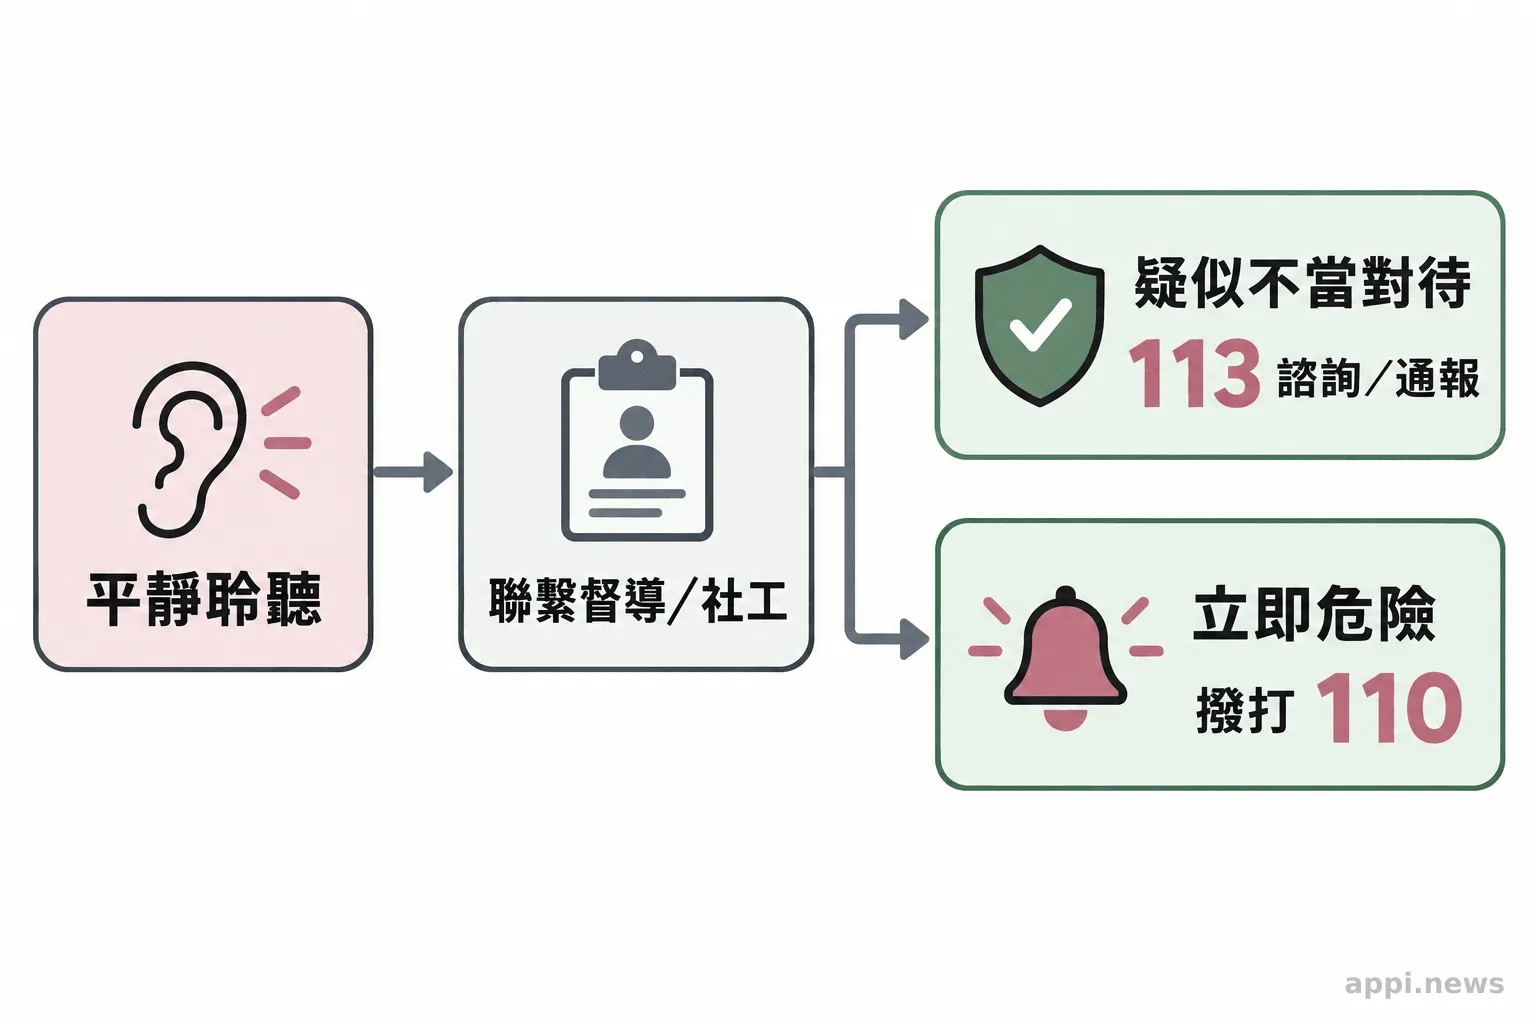
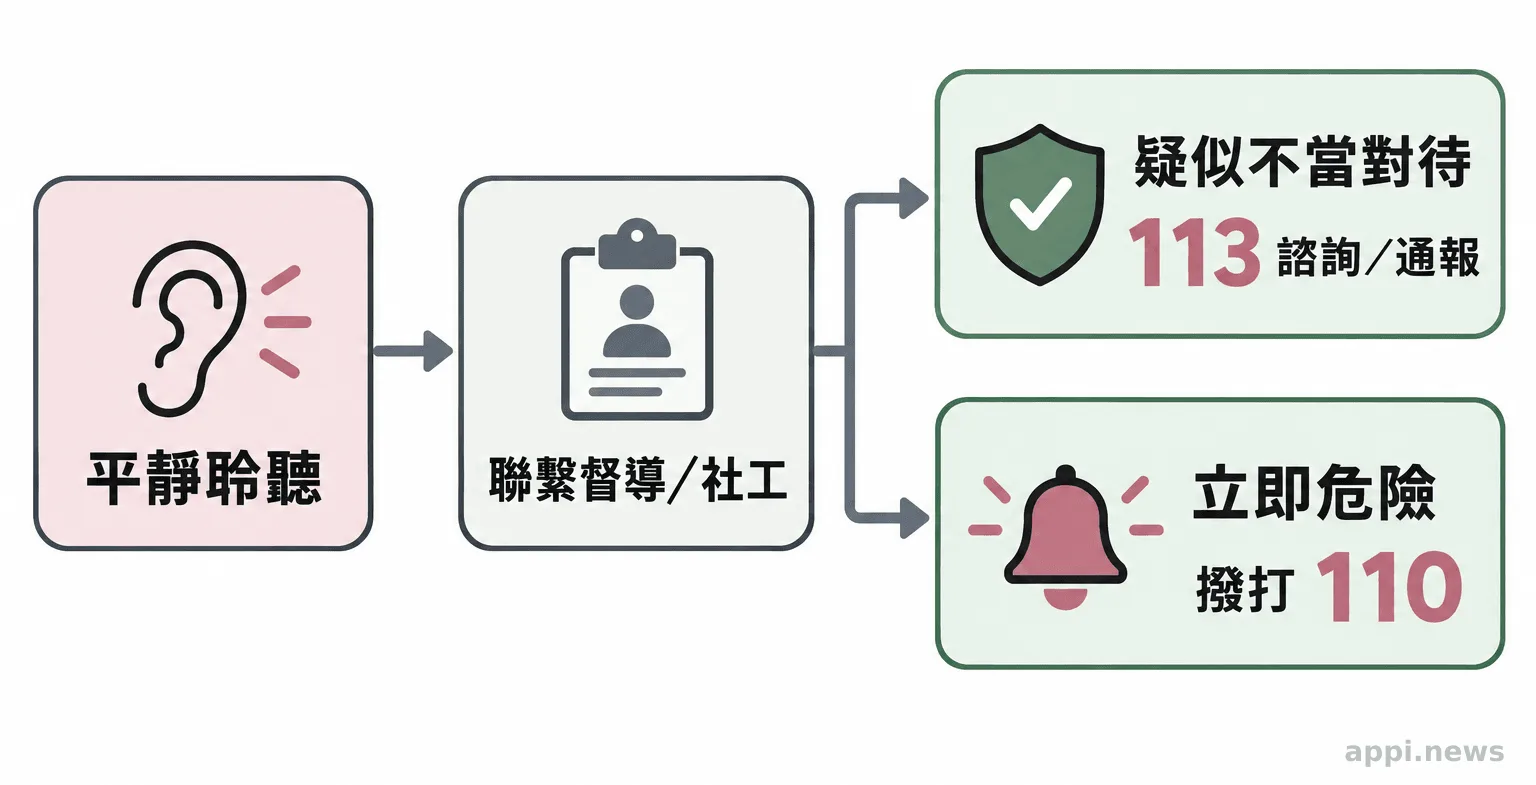
更新微光專欄：孩子的畫要不要展出？兒少藝術陪伴先談選擇與隱私

diff --git a/news.html b/news.html
@@ -62,6 +62,14 @@
     <div class="wrap">
       <div class="news-cards">
         <article class="news-card reveal">
+          <div class="thumb" style="background-image:url('assets/news/news-2026-10-child-art-privacy-and-safety-1.webp')" role="presentation"></div>
+          <div class="body">
+            <div class="meta"><span class="cat">微光專欄</span><time datetime="2026-10-06">2026.10.06</time></div>
+            <h3><a href="news-2026-10-child-art-privacy-and-safety.html">孩子的畫要不要展出？兒少藝術陪伴先談選擇與隱私</a></h3>
+            <p class="excerpt">社區藝術陪伴可以為孩子提供創作與參與的空間。從課程流程、孩子的選擇、作品隱私到志工轉介，家長與帶領者都能先把界線說清楚。</p>
+          </div>
+        </article>
+        <article class="news-card reveal">
           <div class="thumb" style="background-image:url('assets/news/news-2026-10-children-online-safety-support-1.webp')" role="presentation"></div>
           <div class="body">
             <div class="meta"><span class="cat">微光專欄</span><time datetime="2026-10-06">2026.10.06</time></div>
@@ -131,14 +139,6 @@
             <div class="meta"><span class="cat">微光專欄</span><time datetime="2026-10-06">2026.10.06</time></div>
             <h3><a href="news-2026-10-child-safety-observation-support.html">孩子的改變，值得大人多看一眼：兒少保護與通報指南</a></h3>
             <p class="excerpt">孩子的傷勢、情緒或學習變化都有不同成因。認識兒少保護的觀察原則、客觀記錄方式，以及113諮詢通報與110緊急求助的分工。</p>
-          </div>
-        </article>
-        <article class="news-card reveal">
-          <div class="thumb" style="background-image:url('assets/news/news-2026-10-child-art-privacy-and-safety-1.webp')" role="presentation"></div>
-          <div class="body">
-            <div class="meta"><span class="cat">微光專欄</span><time datetime="2026-10-06">2026.10.06</time></div>
-            <h3><a href="news-2026-10-child-art-privacy-and-safety.html">孩子的畫要不要展出？兒少藝術陪伴先談選擇與隱私</a></h3>
-            <p class="excerpt">社區藝術陪伴可以為孩子提供創作與參與的空間。從課程流程、孩子的選擇、作品隱私到志工轉介，家長與帶領者都能先把界線說清楚。</p>
           </div>
         </article>
         <article class="news-card reveal">

diff --git a/index.html b/index.html
@@ -253,6 +253,14 @@
       </div>
       <div class="news-cards">
         <article class="news-card reveal">
+          <div class="thumb" style="background-image:url('assets/news/news-2026-10-child-art-privacy-and-safety-1.webp')" role="presentation"></div>
+          <div class="body">
+            <div class="meta"><span class="cat">微光專欄</span><time datetime="2026-10-06">2026.10.06</time></div>
+            <h3><a href="news-2026-10-child-art-privacy-and-safety.html">孩子的畫要不要展出？兒少藝術陪伴先談選擇與隱私</a></h3>
+            <p class="excerpt">社區藝術陪伴可以為孩子提供創作與參與的空間。從課程流程、孩子的選擇、作品隱私到志工轉介，家長與帶領者都能先把界線說清楚。</p>
+          </div>
+        </article>
+        <article class="news-card reveal">
           <div class="thumb" style="background-image:url('assets/news/news-2026-10-children-online-safety-support-1.webp')" role="presentation"></div>
           <div class="body">
             <div class="meta"><span class="cat">微光專欄</span><time datetime="2026-10-06">2026.10.06</time></div>
@@ -266,14 +274,6 @@
             <div class="meta"><span class="cat">微光專欄</span><time datetime="2026-10-06">2026.10.06</time></div>
             <h3><a href="news-2026-10-child-justice-interview-support.html">如何陪孩子面對減述作業與司法出庭</a></h3>
             <p class="excerpt">孩子進入司法程序後，減述作業、專業人士協助詢問與陪同出庭各有什麼作用？整理性侵害案件的適用範圍、可詢問的保護安排，以及家長與陪伴者能先準備的事。</p>
-          </div>
-        </article>
-        <article class="news-card reveal">
-          <div class="thumb" style="background-image:url('assets/news/news-2026-10-child-art-support-safety-1.webp')" role="presentation"></div>
-          <div class="body">
-            <div class="meta"><span class="cat">微光專欄</span><time datetime="2026-10-06">2026.10.06</time></div>
-            <h3><a href="news-2026-10-child-art-support-safety.html">兒童繪畫不能判定受虐：陪伴受創孩子，大人先守住三個界線</a></h3>
-            <p class="excerpt">畫畫能為受創兒少提供表達與互動的入口，但不能當作受虐證據。了解大人如何陪伴、何時交由專業評估，以及在台灣可使用的求助管道。</p>
           </div>
         </article>
       </div>

diff --git a/news-2026-10-child-art-privacy-and-safety.html b/news-2026-10-child-art-privacy-and-safety.html
@@ -61,7 +61,7 @@
       <div class="a-meta"><span class="cat" style="color:var(--c-accent-dark);border:1px solid var(--c-accent);border-radius:999px;padding:0 10px;font-weight:700">微光專欄</span><time datetime="2026-10-06">2026 年 10 月 6 日</time></div>
 
       <p>孩子走進畫室，桌上放著紙和顏料。大人先說明今天會做什麼、作品由誰保管，也告訴孩子可以休息、不畫，或不分享。這些小事，構成社區藝術陪伴的安全起點。對家長、教師和志工來說，課程設計的重點是讓參與有選擇、讓作品有保護，也讓遇到疑慮時知道找誰協助。</p>
-<p>兒童與少年、疑似遭受虐待或不當對待的孩子，以及曾經歷創傷或家庭暴力的兒少，都可能參與藝術活動。固定流程和可信任的大人能讓活動更清楚，但藝術陪伴屬於支持性的社區活動，不能取代心理治療、社工服務或兒少保護處遇。每個孩子的需要不同，課程也不應承諾特定心理成效。</p>
+<p>兒童與少年、疑似遭受虐待或不當對待的孩子，以及曾經歷創傷或家庭暴力的兒少，都可能參與藝術活動。固定流程和可信任的大人能讓活動更清楚，但藝術陪伴屬於支持性的社區活動，不能取代心理治療、社工服務或兒少保護處遇。每個孩子的需要不同，課程要跟著孩子調整節奏。</p>
 <h2>先把課程流程說清楚，孩子才知道自己可以怎麼參與</h2>
 <p>**先安排固定時段、熟悉的帶領者和清楚流程，並說明孩子可以暫停、旁觀或不參加。**可預期的安排讓孩子知道活動怎麼開始、如何收拾，以及需要幫忙時可以找誰。</p>
 <p>一堂課開始前，可以帶孩子認識空間、洗手間和休息的位置，說明今天有哪些材料、作品由誰保管、活動結束後如何接送。家長也應知道孩子由誰陪伴，以及遇到狀況如何聯繫。</p>
